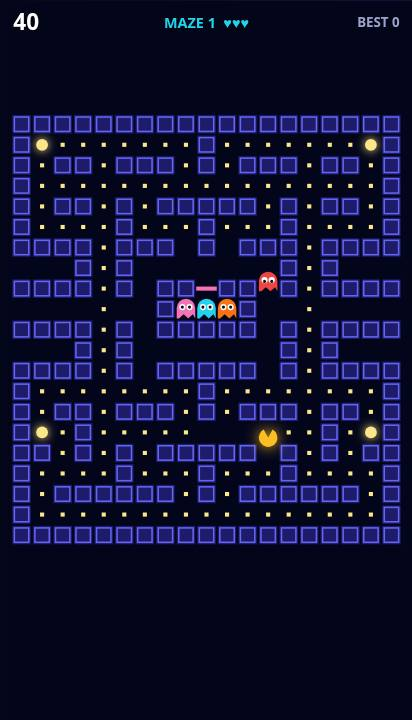
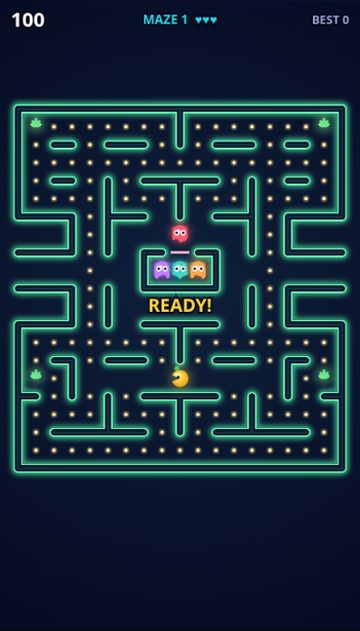
games-lib: Maze Muncher art upgrade (neon maze, original characters); e2e + bug pass PASS

diff --git a/public/games-lib/maze-muncher/game.js b/public/games-lib/maze-muncher/game.js
@@ -24,7 +24,7 @@
     '###################'];
   const T = 20, OX = 10, OY = 110, COLS = MAP[0].length, ROWS = MAP.length;
   const DIRS = [[1, 0], [-1, 0], [0, 1], [0, -1]];
-  const GC = ['#ef4444', '#f472b6', '#22d3ee', '#f97316'];
+  const GC = ['#ff5a6e', '#c77dff', '#3fd8c8', '#ffa94d'];
   const wall = (g, x, y) => { if (x < 0 || x >= COLS) return false; const ch = (MAP[y] || '')[x]; return ch === '#' || ch === '-' ; };
   function reset(g) { g.pl = { x: 9, y: 15, px: 9, py: 15, d: [0, 0], nd: [-1, 0], prog: 0 }; g.gh = [[9, 7], [8, 9], [9, 9], [10, 9]].map(([x, y], i) => ({ x, y, d: [0, 0], prog: 0, home: i * 2.5, fr: 0, eaten: false, i })); g.fr = 0; g.ready = 1.2; }
   Kit.run({ id: 'gl-maze-muncher', title: 'MAZE MUNCHER', help: 'Arrows / swipe to steer\nEat every dot, power pellets turn the hunters', bg: '#03051a',
@@ -58,16 +58,35 @@
       g.hud = 'MAZE ' + g.lvl + '  ' + '\u2665'.repeat(g.lives);
     },
     draw(g, c) {
-      for (let y = 0; y < ROWS; y++) for (let x = 0; x < COLS; x++) { const ch = MAP[y][x]; if (ch === '#') { c.fillStyle = '#1e1b6b'; c.fillRect(OX + x * T + 1, OY + y * T + 1, T - 2, T - 2); c.strokeStyle = '#6366f1'; c.lineWidth = 1.5; c.strokeRect(OX + x * T + 3, OY + y * T + 3, T - 6, T - 6); } if (ch === '-') { c.fillStyle = '#f472b6'; c.fillRect(OX + x * T, OY + y * T + 8, T, 4); } }
-      c.fillStyle = '#fde68a'; for (const k of g.dots) { const [x, y] = k.split(','); c.fillRect(OX + x * T + 8, OY + y * T + 8, 4, 4); }
-      for (const k of g.pw) { const [x, y] = k.split(','); Kit.glow(c, '#fde68a', 10); Kit.circ(c, OX + x * T + 10, OY + y * T + 10, 5 + Math.sin(g.t * 8) * 1.5, '#fde68a'); Kit.noGlow(c); }
-      const p = g.pl; const px = OX + (p.x + p.d[0] * p.prog) * T + 10, py = OY + (p.y + p.d[1] * p.prog) * T + 10; const ang = Math.atan2(p.d[1] || p.nd[1], p.d[0] || p.nd[0]); const m = 0.25 + 0.25 * Math.abs(Math.sin(g.t * 14));
-      Kit.glow(c, '#fbbf24', 14); c.fillStyle = '#fbbf24'; c.beginPath(); c.moveTo(px, py); c.arc(px, py, 9, ang + m, ang + Math.PI * 2 - m); c.fill(); Kit.noGlow(c);
+      c.drawImage(mazeLayer(g.W, g.H), 0, 0, g.W, g.H);
+      for (const k of g.dots) { const [x, y] = k.split(','); const cx = OX + x * T + 10, cy = OY + y * T + 10; c.fillStyle = 'rgba(255,214,120,.25)'; c.beginPath(); c.arc(cx, cy, 4, 0, 7); c.fill(); c.fillStyle = '#ffe6a8'; c.beginPath(); c.arc(cx, cy, 2.1, 0, 7); c.fill(); }
+      for (const k of g.pw) { const [x, y] = k.split(','); const cx = OX + x * T + 10, cy = OY + y * T + 10, s = 1 + Math.sin(g.t * 6) * 0.12; c.save(); c.translate(cx, cy); c.scale(s, s); c.shadowColor = '#7dff9a'; c.shadowBlur = 12; leaf(c, 0, 0, 8, '#6fe38a'); c.restore(); }
+      const p = g.pl; const px = OX + (p.x + p.d[0] * p.prog) * T + 10, py = OY + (p.y + p.d[1] * p.prog) * T + 10; const ang = Math.atan2(p.d[1] || p.nd[1], p.d[0] || p.nd[0]); const m = 0.06 + 0.32 * Math.abs(Math.sin(g.t * 13));
+      c.save(); c.translate(px, py); c.shadowColor = 'rgba(255,220,90,.7)'; c.shadowBlur = 14; const hg = c.createRadialGradient(-3, -4, 1, 0, 0, 10); hg.addColorStop(0, '#fff6c0'); hg.addColorStop(0.45, '#ffd23f'); hg.addColorStop(1, '#e09a10'); c.fillStyle = hg; c.beginPath(); c.moveTo(0, 0); c.arc(0, 0, 9.5, ang + m, ang + Math.PI * 2 - m); c.closePath(); c.fill(); c.shadowBlur = 0;
+        c.save(); c.rotate(-0.3); leaf(c, 0, -10, 4.5, '#4fd16e'); c.restore();
+        const ex = Math.cos(ang - 1.1) * 4.5, ey = Math.sin(ang - 1.1) * 4.5 - (Math.abs(Math.cos(ang)) > 0.5 ? 0 : 0); c.fillStyle = '#2a1a05'; c.beginPath(); c.arc(ex, Math.min(ey, -1.5), 1.6, 0, 7); c.fill(); c.restore();
       for (const h of g.gh) { const hx = OX + (h.x + h.d[0] * h.prog) * T + 10, hy = OY + (h.y + h.d[1] * h.prog) * T + 10;
-        if (!h.eaten) { const col = h.fr > 0 ? (h.fr < 2 && Math.sin(g.t * 20) > 0 ? '#fff' : '#3b82f6') : GC[h.i]; c.fillStyle = col; c.beginPath(); c.arc(hx, hy - 1, 9, Math.PI, 0); c.lineTo(hx + 9, hy + 9); for (let i = 0; i < 4; i++) c.lineTo(hx + 9 - (i + 0.5) * 4.5, hy + 9 - ((i + Math.floor(g.t * 8)) % 2) * 4); c.lineTo(hx - 9, hy + 9); c.fill(); }
-        Kit.circ(c, hx - 3.5, hy - 2, 3, '#fff'); Kit.circ(c, hx + 3.5, hy - 2, 3, '#fff'); Kit.circ(c, hx - 3.5 + h.d[0] * 1.3, hy - 2 + h.d[1] * 1.3, 1.5, '#111'); Kit.circ(c, hx + 3.5 + h.d[0] * 1.3, hy - 2 + h.d[1] * 1.3, 1.5, '#111'); }
-      if (g.ready > 0 && g.state === 'play') g.txt('READY!', g.W / 2, OY + 11 * T + 10, 20, '#fbbf24');
+        if (!h.eaten) { const fr = h.fr > 0, blink = fr && h.fr < 2 && Math.sin(g.t * 20) > 0; wisp(c, hx + (fr ? Math.sin(g.t * 40) * 0.6 : 0), hy, fr ? (blink ? '#f2f6ff' : '#5b7cff') : GC[h.i], g.t + h.i, fr); }
+        if (!h.fr || h.eaten) { for (const sx of [-3.6, 3.6]) { c.fillStyle = '#fff'; c.beginPath(); c.ellipse(hx + sx, hy - 2, 2.6, 3.2, 0, 0, 7); c.fill(); c.fillStyle = '#16123a'; c.beginPath(); c.arc(hx + sx + h.d[0] * 1.3, hy - 2 + h.d[1] * 1.4, 1.4, 0, 7); c.fill(); } }
+        else { c.fillStyle = '#fff'; c.fillRect(hx - 4.5, hy - 3, 2.2, 2.2); c.fillRect(hx + 2.3, hy - 3, 2.2, 2.2); c.strokeStyle = '#fff'; c.lineWidth = 1; c.beginPath(); for (let i = 0; i <= 4; i++) c.lineTo(hx - 5 + i * 2.5, hy + 3 + (i % 2) * 1.6); c.stroke(); } }
+      if (g.ready > 0 && g.state === 'play') g.txt('READY!', g.W / 2, OY + 11 * T + 10, 20, '#ffd23f');
     } });
+  function leaf(c, x, y, r, col) { c.save(); c.translate(x, y); c.fillStyle = col; for (let i = -2; i <= 2; i++) { c.save(); c.rotate(i * 0.55); c.beginPath(); c.ellipse(0, -r * (0.55 - Math.abs(i) * 0.08), r * 0.2, r * (0.6 - Math.abs(i) * 0.1), 0, 0, 7); c.fill(); c.restore(); } c.restore(); }
+  // enemies are original "haze wisps": soft cloud bodies with trailing curls
+  function wisp(c, x, y, col, t, fr) { c.save(); c.translate(x, y); c.shadowColor = col; c.shadowBlur = 10; const gr = c.createRadialGradient(-2, -4, 1, 0, 0, 12); gr.addColorStop(0, '#ffffff'); gr.addColorStop(0.25, col); gr.addColorStop(1, col); c.fillStyle = gr; c.globalAlpha = fr ? 0.85 : 0.95;
+    c.beginPath(); c.arc(0, -2, 8.5, Math.PI, 0); for (let i = 0; i <= 6; i++) { const xx = 8.5 - i * (17 / 6); c.lineTo(xx, 6 + Math.sin(t * 9 + i * 1.3) * 2.2 + (i % 2) * 1.5); } c.closePath(); c.fill();
+    c.globalAlpha = 0.35; c.beginPath(); c.arc(-6, -6, 3.5, 0, 7); c.arc(6, -7, 3, 0, 7); c.fill(); c.restore(); }
+  let ML = null; function mazeLayer(W, H) { if (ML) return ML; const cv = document.createElement('canvas'); cv.width = W * 2; cv.height = H * 2; const c = cv.getContext('2d'); c.scale(2, 2);
+    const bg = c.createRadialGradient(W / 2, H * 0.45, 30, W / 2, H / 2, H * 0.75); bg.addColorStop(0, '#0f1f3a'); bg.addColorStop(1, '#03051a'); c.fillStyle = bg; c.fillRect(0, 0, W, H);
+    const isW = (x, y) => y >= 0 && y < ROWS && x >= 0 && x < COLS && MAP[y][x] === '#';
+    const path = () => { c.beginPath(); for (let y = 0; y < ROWS; y++) for (let x = 0; x < COLS; x++) if (isW(x, y)) { const cx = OX + x * T + 10, cy = OY + y * T + 10; c.moveTo(cx, cy); c.lineTo(cx + 0.01, cy); if (isW(x + 1, y)) { c.moveTo(cx, cy); c.lineTo(cx + T, cy); } if (isW(x, y + 1)) { c.moveTo(cx, cy); c.lineTo(cx, cy + T); } } };
+    c.lineCap = 'round'; c.lineJoin = 'round';
+    path(); c.shadowColor = '#4fe3a0'; c.shadowBlur = 14; c.strokeStyle = '#1f8a66'; c.lineWidth = 13; c.stroke(); c.shadowBlur = 0;
+    path(); c.strokeStyle = '#7dffc4'; c.lineWidth = 10; c.stroke();
+    path(); c.strokeStyle = '#0b1830'; c.lineWidth = 7; c.stroke();
+    path(); c.strokeStyle = 'rgba(125,255,196,.12)'; c.lineWidth = 2; c.stroke();
+    for (let y = 0; y < ROWS; y++) for (let x = 0; x < COLS; x++) if (MAP[y][x] === '-') { c.fillStyle = '#ffb3d1'; c.fillRect(OX + x * T, OY + y * T + 8.5, T, 3); }
+    return (ML = cv); }
   function eat(g) { const p = g.pl, k = p.x + ',' + p.y;
     if (g.dots.delete(k)) { g.add(10, 'd'); if (g.frames % 2) Kit.tone(520, 0.04, 'triangle', 0.04); }
     if (g.pw.delete(k)) { g.add(50, 'o'); g.fr = Math.max(2.5, 7 - g.lvl * 0.6); for (const h of g.gh) if (!h.eaten) { h.fr = g.fr; h.d = [-h.d[0], -h.d[1]]; } g.combo = 0; g.sfx('power'); g.flash('#3b82f6', 0.1); }

diff --git a/docs/GAMES-LIB.md b/docs/GAMES-LIB.md
@@ -331,3 +331,8 @@ For each reference we searched GitHub (topics html5-game / javascript-game / pha
 - Candidates: vendoring react-tetris (Apache-2.0) and tetris-js clones (MIT). Rejected: both use the classic LCD or flat look, ship trademark naming, and our build already has guideline features (7-bag, hold, ghost, 3-piece preview, kicks). Kept our build and upgraded its visuals.
 - Upgrade: pre-rendered glossy bevelled jewel tiles, a glass board panel with a soft glow, a checker well, a radial backdrop with bokeh and a faint leaf watermark, a filled and outlined ghost, a hard-drop light trail, a lock flash, a white-wipe line clear, and styled hold/next panels with centred previews. Scoring is unchanged, so the server rules are unchanged.
 - Tests: e2e PASS (60 FPS). Bug pass PASS (4x throttle 25 FPS, memory +0.0 MB). Side-by-side: docs/audit/block-drop-vs-ref.jpg (the reference image is an EA mobile results screen, the only free-licence-usable capture available). Rating: visual 7/10, feel 8/10.
+
+## Maze Muncher - DONE (2026-10-10 04:40 ET)
+- Candidates: vendoring "pacman" by luciopaiva (MIT) and Pacman-Canvas (CC BY-NC-SA). Rejected: the first is a near-copy of the reference's characters and sprites, and the second is non-commercial. Kept our build and gave it new art.
+- Upgrade: a pre-rendered neon double-line tube maze (green glow, rounded joins), glowing seed dots, pulsing leaf power pellets, an original hero (a gradient gold "Munchie" with a sprout and an eye, not the reference's plain disc), and enemies redrawn as "haze wisps" (soft gradient cloud bodies with animated curls, new palette, shivering frightened state). Rules and scoring are unchanged.
+- Tests: e2e PASS (60 FPS). Bug pass PASS (4x throttle 43 FPS, memory +0.0 MB). Side-by-side: docs/audit/maze-muncher-vs-ref.jpg. Rating: visual 7/10, feel 7/10.

diff --git a/HANDOFF-AGENT.md b/HANDOFF-AGENT.md
@@ -26,7 +26,8 @@ Remaining:
 - Tools: `tools/e2e-games-lib.js` (supports DOM games via `#gl`), `tools/games-lib-bugpass.js`, `tools/games-lib-audit.js`. Bots: /tmp/jt.js (Ruin Runner turns), /tmp/lrbot2.js (racers, in-page).
 - Sky Flap DONE (rebuilt with Kenney Tappy Plane CC0; Clumsy Bird rejected for copied art).
 - Block Drop DONE (glossy tile renderer, clear/drop/lock FX).
-- Next (Reese order): Maze Muncher, then shared realistic car set (Blender, 4-6 bodies, <5k tris, PBR) + Moto Lanes finish, then Alien Rows, Cloud Hopper, Road Hopper, the international source search, batches 4-8 toward 150+ (catalog `docs/REESE-MASTER-CATALOG.md`); then the bug pass and same-tier audit across all older games.
+- Maze Muncher DONE (neon tube maze, original hero + haze-wisp enemies).
+- Next (Reese order): shared realistic car set (Blender, 4-6 bodies, <5k tris, PBR) + Moto Lanes finish, then Alien Rows, Cloud Hopper, Road Hopper, the international source search, batches 4-8 toward 150+ (catalog `docs/REESE-MASTER-CATALOG.md`); then the bug pass and same-tier audit across all older games.
 
 ## Firm boundaries (Reese accepted)
 - No ripped/commercial game assets, characters, logos, or pirated ports (declined: CoD zombies, GTA, Halo, Skate 3, PES, Simpsons H&R, Half-Life/CS, UT). Licences must allow commercial use (CC0/CC-BY/MIT etc.; no NC, editorial, engine-locked).
